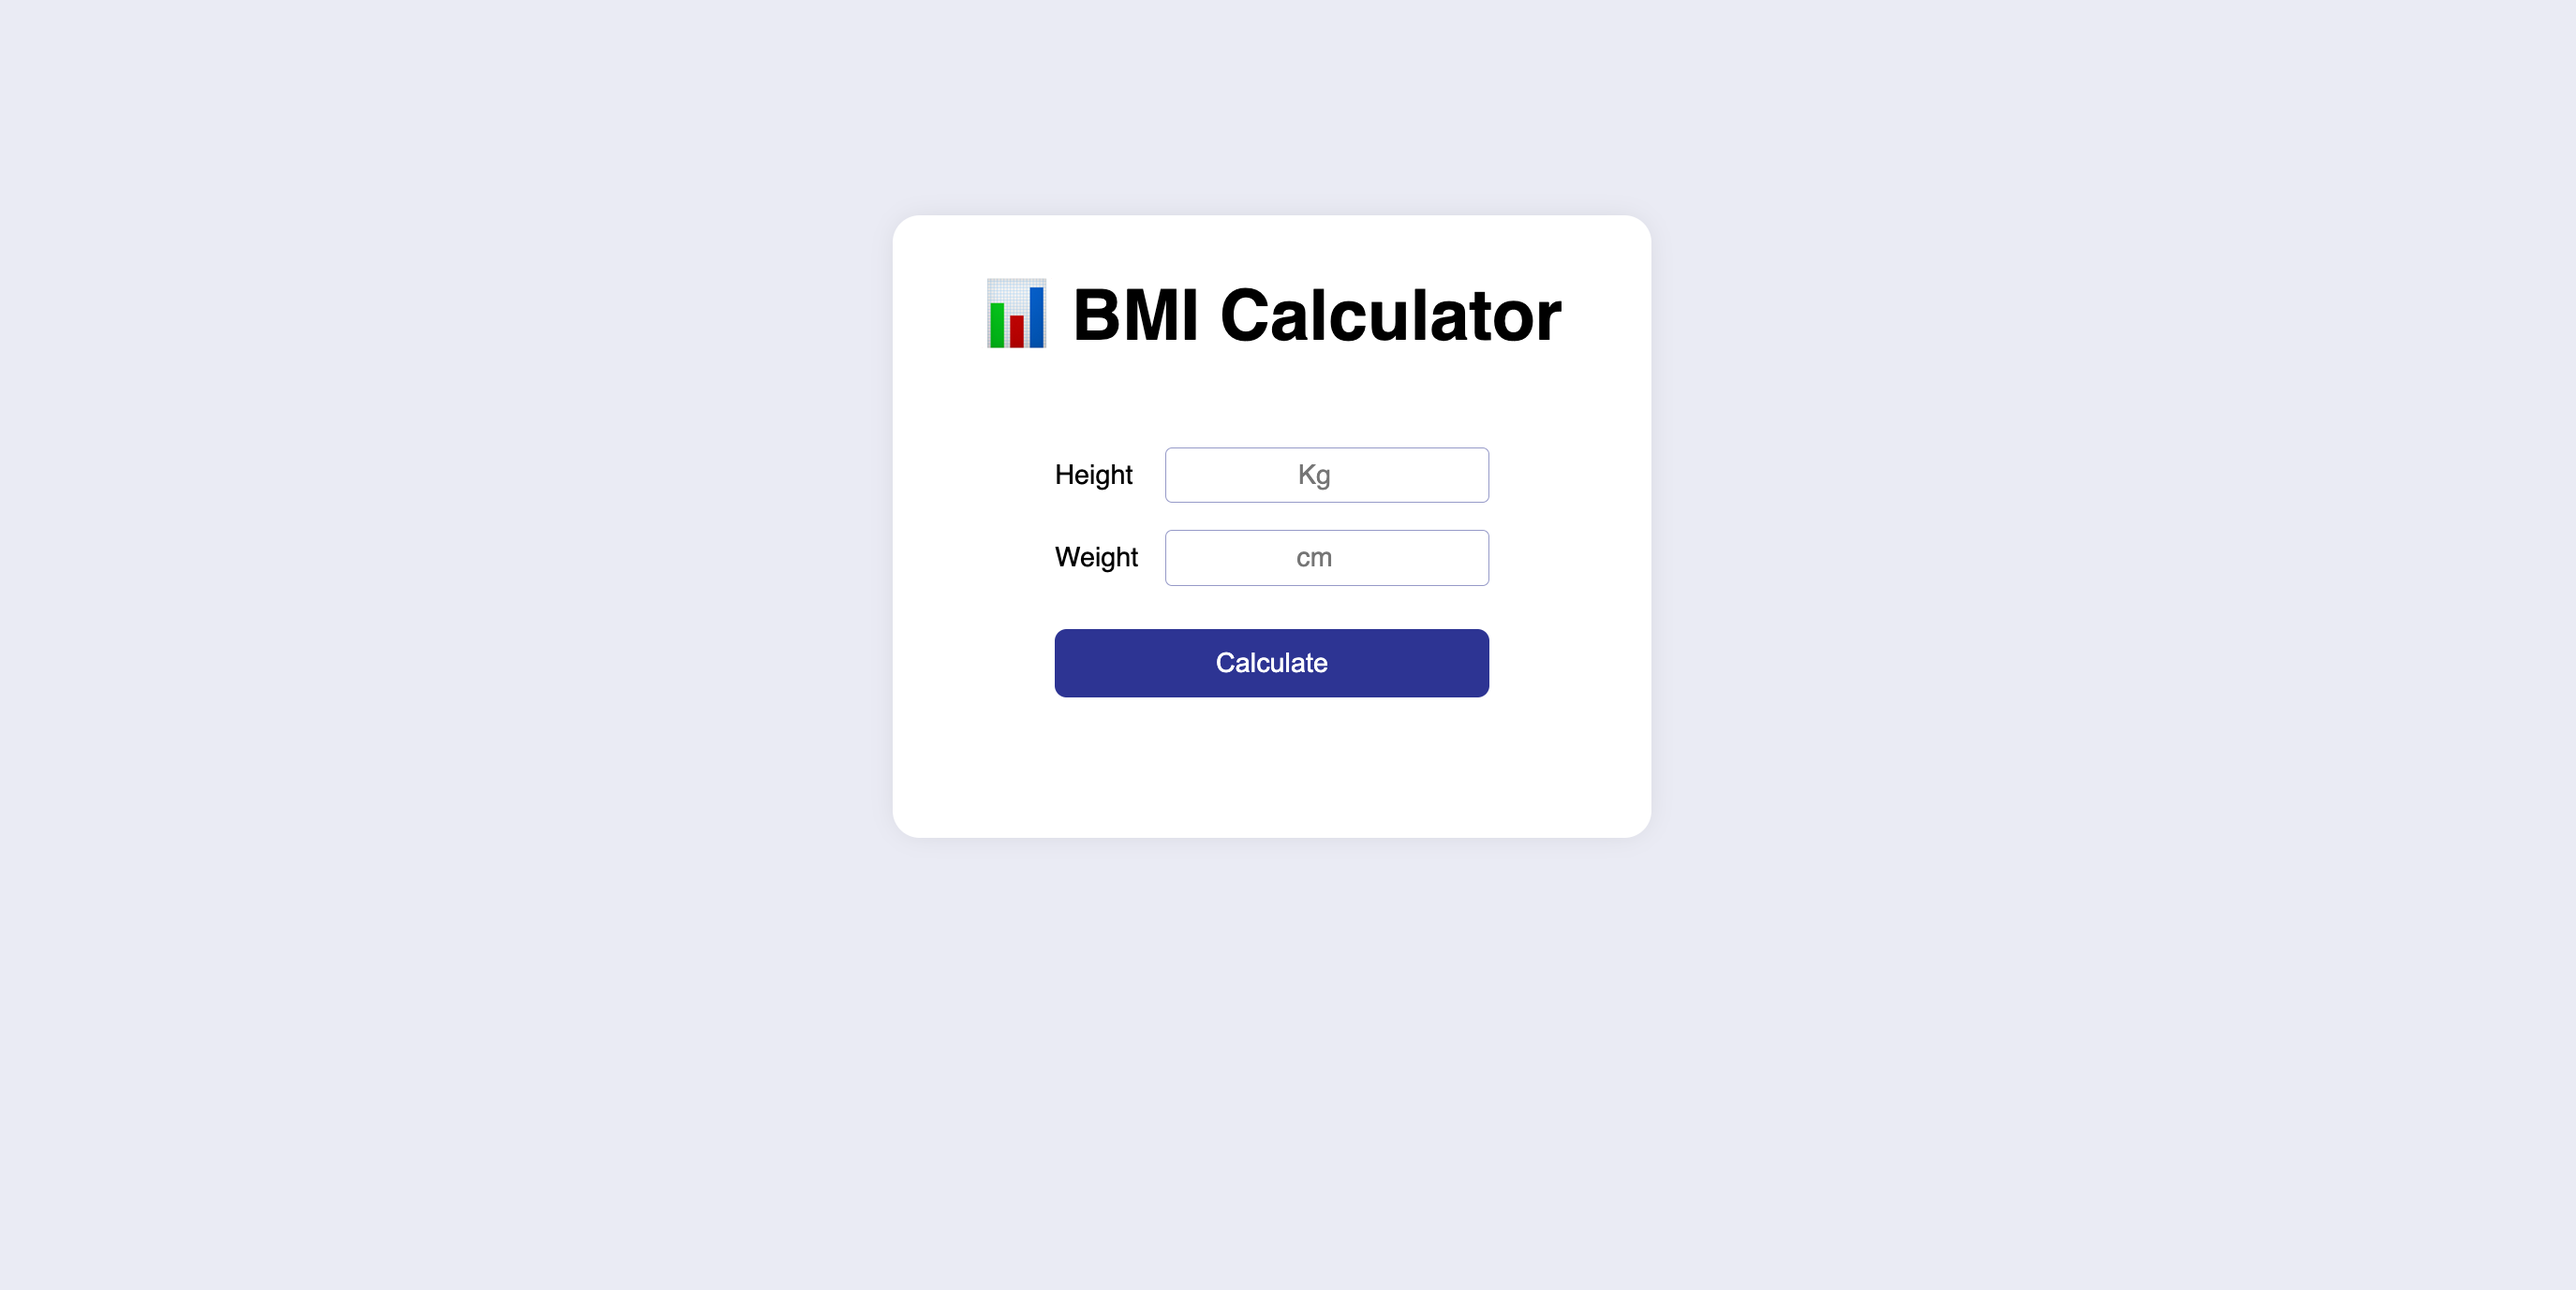
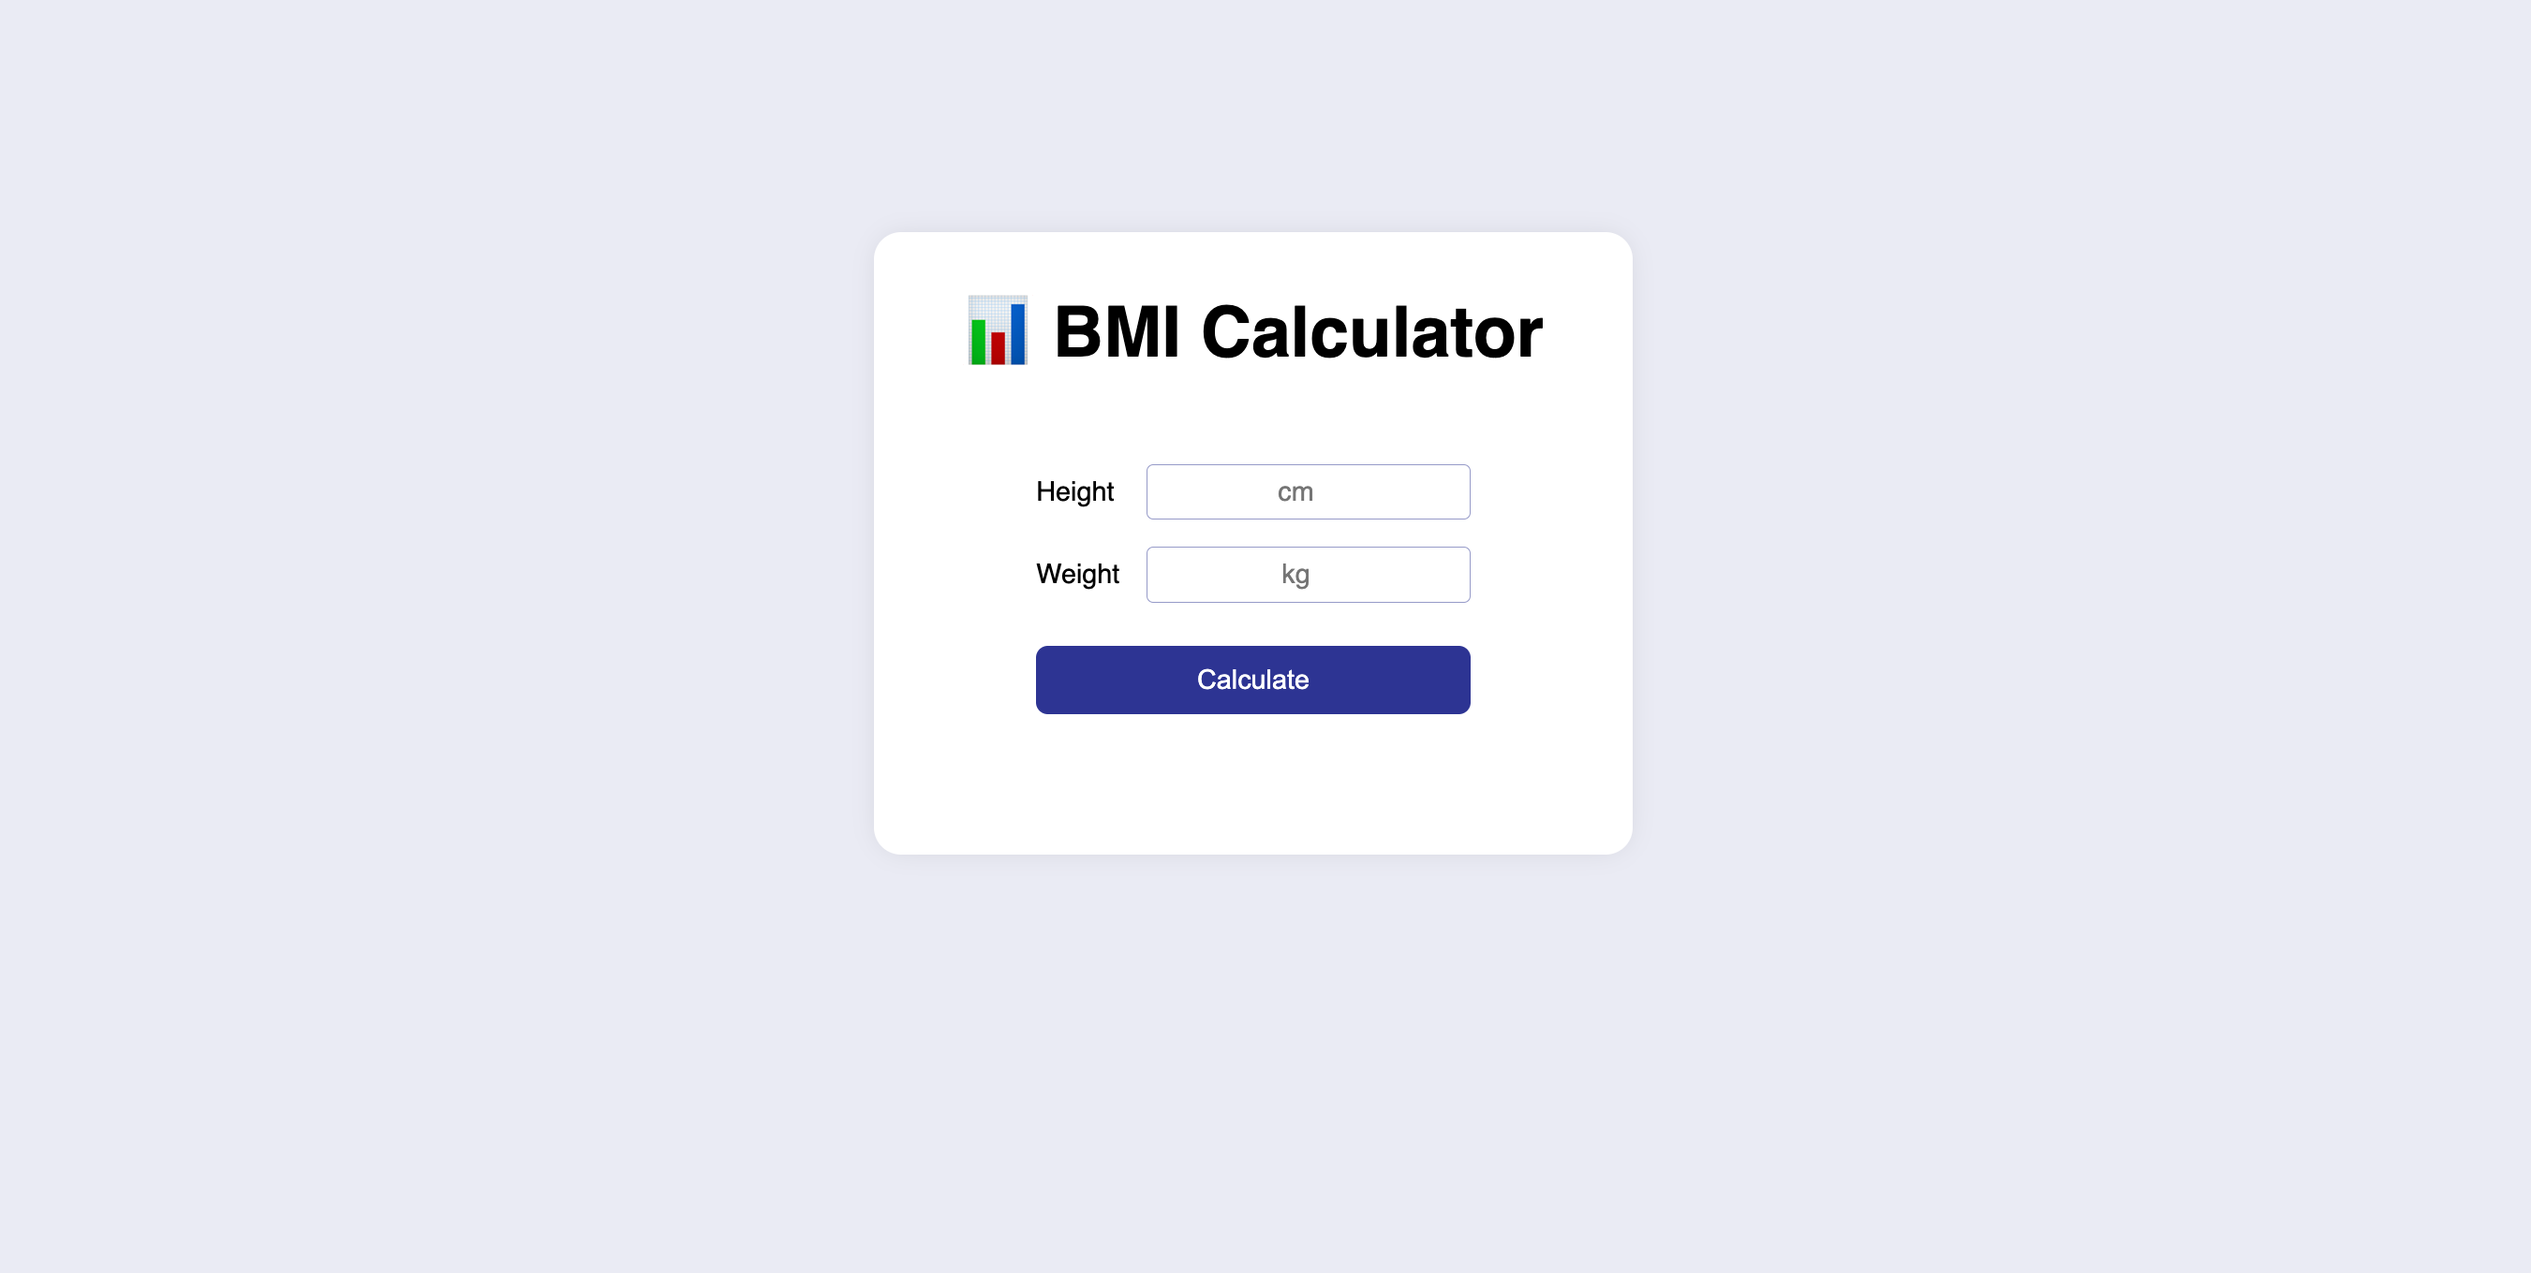
fixed small error

diff --git a/src/App.js b/src/App.js
@@ -53,7 +53,7 @@ function Form({ hegiht, weight, onHeight, onWeight, onCalculate }) {
         type="number"
         value={hegiht}
         onChange={onHeight}
-        placeholder="Kg"
+        placeholder="cm"
       />
 
       <label>Weight</label>
@@ -61,7 +61,7 @@ function Form({ hegiht, weight, onHeight, onWeight, onCalculate }) {
         type="number"
         value={weight}
         onChange={onWeight}
-        placeholder="cm"
+        placeholder="kg"
       />
 
       <button>Calculate</button>
